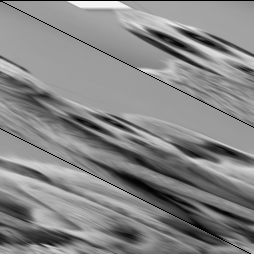
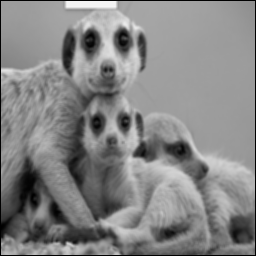
sec

diff --git a/gray_to_png.py b/gray_to_png.py
@@ -19,5 +19,5 @@ def convert_gray_to_png(raw_file, output_file, width=254, height=254):
 
 # IMPORTANT: Match these to your actual output size!
 convert_gray_to_png('grayImg.gray', 'result_grayscale.png', 256, 256) # Grayscale usually keeps full size
-convert_gray_to_png('blurred.gray', 'result_blurred.png', 254, 254)   # Filtered loses 2 pixels
-convert_gray_to_png('edges.gray', 'result_edges.png', 254, 254)       # Filtered loses 2 pixels
+convert_gray_to_png('blurred.gray', 'result_blurred.png', 256, 256)   # Filtered loses 2 pixels
+convert_gray_to_png('edges.gray', 'result_edges.png', 256, 256)       # Filtered loses 2 pixels

diff --git a/pixel_buffer.h b/pixel_buffer.h
@@ -17,7 +17,7 @@ struct RGBbuffer {
 };
 
 extern uint8_t grayBuffer[K];
-extern uint8_t resultBuffer[K-3+1];
+extern uint8_t resultBuffer[K];
 extern RGBbuffer RGBimgbuffer;
 
 #endif //PIXEL_BUFFER_H

diff --git a/pixel_buffer.cpp b/pixel_buffer.cpp
@@ -1,5 +1,5 @@
 #include "pixel_buffer.h"
 
-uint8_t resultBuffer[K-3+1];
+uint8_t resultBuffer[K];
 uint8_t grayBuffer[K];
 RGBbuffer RGBimgbuffer;
